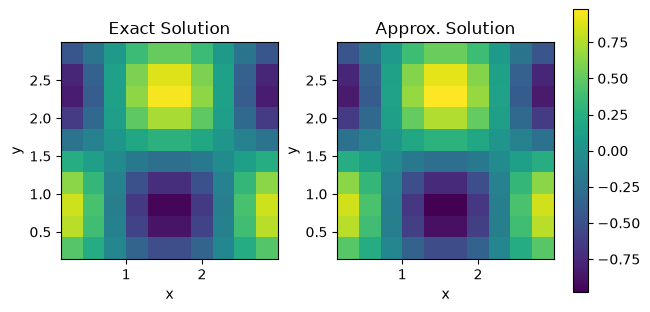
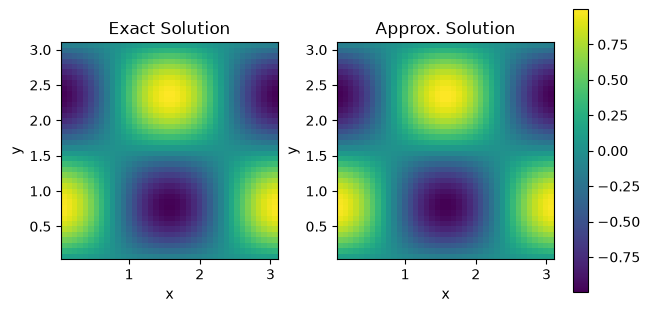
Generated a higher fidelity image plot for write up of problem 1 later.

diff --git a/Scripts/Problem_2_1.py b/Scripts/Problem_2_1.py
@@ -93,7 +93,7 @@ def convTest(mesh_range, num_trials, exact_sol, num_Operator, filepath = 'Images
 def main():
 
     # parameters
-    N = 10
+    N = 40
     bounds = [0,np.pi]
     f = lambda x,y : -8.0 * np.sin(2.0*y) * np.cos(2.0*x)
     solution = lambda x,y : np.cos(2.0*x)*np.sin(2.0*y)
